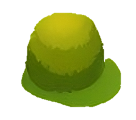
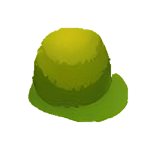
one bush done

diff --git a/roadkill_simulator/game.js b/roadkill_simulator/game.js
@@ -2,29 +2,109 @@ import keys from "./key.js";
 import { player } from "./player.js"
 import { up, down, right, left } from "./player.js"
 
+// Update view: on init and listening (subscribe) to the player. Retrieve the state with [storeName].getState().[sliceName]
+
+const lineHeight = '70'
+let ga = document.querySelector(".gameArea");
+// const gameAreaAbsoluteHeight = ga.offsetHeight - ga.offsetTop // 前者是gameArea高度，後者是gameArea離最上面多遠
+
+const initRender = () => {
+  // lines on road
+  const gameArea = document.querySelector('.gameArea')
+  const grassArea = document.querySelector('.grass')
+
+  for (let x = 0; x < 5; x++) {
+    let div = document.createElement("div");
+    div.classList.add("line");
+    div.style.top = x * 150 + "px";
+    div.style.height = lineHeight + 'px'
+    gameArea.appendChild(div);
+  }
+
+  let bush1 = document.createElement('img')
+  bush1.src = './assets/bush1.png'
+  bush1.classList.add("bush1");
+  grassArea.appendChild(bush1);
+  bush1.style.left = 250 + 'px' //  -350 px ~ -250px; 250px ~ 350px
+  bush1.style.top = 100 + 'px'
+  bush1.style.height = 50 + 'px'
+  bush1.style.clipPath = 'inset(0px 0px 0.001px 0px)'
+
+  // car
+  let car = document.createElement('img')
+  car.src = './assets/car2.png'
+  car.innerHTML = 'car'
+  car.setAttribute('class', 'car')
+  gameArea.appendChild(car)
+}
+
+
 const movelines = () => {
   let lines = document.querySelectorAll(".line");
-  let ga = document.querySelector(".gameArea");
-  const gameAreaAbsoluteHeight = ga.offsetHeight - ga.offsetTop// gameArea長度
   lines.forEach(function (item) {
-    let y = parseFloat(item.style.top) // 每條線離gameArea邊緣多少
+    let y = parseFloat(item.style.top) // 每條線離gameArea邊緣多少 700 px
     let speed = player.getState().player.speed
-    if (y >= 600 + 70 + 0) { //以前0是 80
-      y = 0;
-    }
+    if (y >= ga.offsetHeight) { y = 0; } // 會影響有沒有縮完整才跳回去（應該要y == gameArea高度(ga.offsetHeight) 以後跳回去）
     y += speed
 
-    if (y > gameAreaAbsoluteHeight + 20) {
+    if (y > ga.offsetHeight - 70) { // 會影響開始縮的時間 (應該要從y == ga.offsetHeight - 線的長度開始縮)
       let len = parseFloat(item.style.height) - speed
       item.style.height = len + 'px'
       item.style.top = y + "px";
     }
-    else if (y <= 80 && parseFloat(item.style.height) < 80) {
+    else if (y <= 70 && parseFloat(item.style.height) <= 70) {
       let len = parseFloat(item.style.height) + speed
       item.style.top = 0 + "px";
       item.style.height = len + 'px'
     }
-    else if (y <= 700 + 100 - 80 && y >= 0) {
+    else {
+      item.style.height = lineHeight;
+      item.style.top = y + "px";
+    }
+  });
+}
+
+const getClipBottom = (clipPathValue) => {
+  const valuesArray = clipPathValue.split(' '); // Split the string into an array of values
+  const lastValue = valuesArray.pop(); // Remove and return the last value of the array
+  const lastNumber = parseFloat(lastValue); // Convert the last value to a number
+  return lastNumber
+}
+const getClipTop = (clipPathValue) => {
+  const valuesArray = clipPathValue.slice(6, -1).split(' ');; // Split the string into an array of values
+  const firstValue = valuesArray[0]; // Remove and return the last value of the array
+  const firstNumber = parseFloat(firstValue); // Convert the last value to a number
+  return firstNumber
+}
+
+
+const movebushes = () => {
+  let bushes = document.querySelectorAll(".bush1");
+  bushes.forEach(function (item) {
+    let y = parseFloat(item.style.top) // 每條線離gameArea邊緣多少 700 px
+    // console.log(y)
+    let speed = player.getState().player.speed
+    if (y >= ga.offsetHeight) {
+      y = -50;
+      item.style.clipPath = `inset(50px 0px 0.001px 0px)`;
+    } // 會影響有沒有縮完整才跳回去（應該要y == gameArea高度(ga.offsetHeight) 以後跳回去，跟線不一樣，他需要跳回-50，再慢慢揭露，線都長一樣所以只要管長度）
+    y += speed
+
+    if (y > ga.offsetHeight - 50) { // 會影響開始縮的時間 (應該要從y == ga.offsetHeight - 線的長度開始縮)
+      let toClip = getClipBottom(item.style.clipPath) + speed // 在現有的clippath數字再加上去speed的量
+      const newInsetValue = `0px 0px ${toClip}px 0px`;
+      item.style.clipPath = `inset(${newInsetValue})`;
+      item.style.top = y + "px";
+    }
+    else if (y <= 50) {
+      let toClipTop = getClipTop(item.style.clipPath) - speed
+      const newInsetValue = `${toClipTop}px 0px 0.001px 0px`;
+      item.style.clipPath = `inset(${newInsetValue})`;
+      item.style.top = y + "px";
+    }
+    else {
+      const newInsetValue = `0px 0px 0.001px 0px`;
+      item.style.clipPath = `inset(${newInsetValue})`;
       item.style.top = y + "px";
     }
   });
@@ -37,7 +117,7 @@ const playGame = () => {
   const car = document.querySelector('.car')
 
   movelines()
-
+  movebushes()
   if (player.getState().player.start) {
 
     if (keys.getState().key.ArrowUp && player.getState().player.y < road.bottom - car.offsetHeight - road.y) {
@@ -56,4 +136,6 @@ const playGame = () => {
   window.requestAnimationFrame(playGame)
 }
 
+
+export { initRender }
 export default playGame

diff --git a/roadkill_simulator/player.js b/roadkill_simulator/player.js
@@ -50,42 +50,12 @@ const rootReducer = {
 const player = appStore.configureStore({ reducer: rootReducer });
 // ---------
 
-// Update view: on init and listening (subscribe) to the player. Retrieve the state with [storeName].getState().[sliceName]
-const initRender = () => {
-
-  // lines on road
-  const gameArea = document.querySelector('.gameArea')
-  const grassArea = document.querySelector('.grass')
-
-  for (let x = 0; x < 5; x++) {
-    let div = document.createElement("div");
-    div.classList.add("line");
-    div.style.top = x * 170 + "px";
-    div.style.height = '70px'
-    gameArea.appendChild(div);
-  }
-
-  let bush1 = document.createElement('img')
-  bush1.src = './assets/bush1.png'
-  bush1.classList.add("bush1");
-  grassArea.appendChild(bush1);
-  bush1.style.left = 250 + 'px' //  -350 px ~ -250px; 250px ~ 350px
-
-  // car
-  let car = document.createElement('img')
-  car.src = './assets/car2.png'
-  car.innerHTML = 'car'
-  car.setAttribute('class', 'car')
-  gameArea.appendChild(car)
-
-}
-
 const renderplayer = () => {
   let car = document.querySelector('.car')
   car.style.left = player.getState().player.x + "px"
   car.style.bottom = player.getState().player.y + "px"
 }
-initRender()
+
 player.subscribe(renderplayer);
 
 export { up, down, left, right }

diff --git a/roadkill_simulator/roadkill.js b/roadkill_simulator/roadkill.js
@@ -1,4 +1,4 @@
-import playGame from "./game.js"
+import playGame, { initRender } from "./game.js"
 import { player, startAction } from "./player.js"
 
 const score = document.querySelector('.score')
@@ -21,6 +21,7 @@ const start = (e) => {
   startGameForm.classList.toggle('hide')
   startScreen.classList.toggle('hide')
   grassArea.classList.toggle('hide')
+  initRender()
   player.dispatch(startAction({ speed: speed }))
   window.requestAnimationFrame(playGame)
 }

diff --git a/roadkill_simulator/style.css b/roadkill_simulator/style.css
@@ -57,6 +57,5 @@ html {
 
 .bush1 {
     position: relative;
-    width: 50px;
-    height: calc(50px * 106 / 142);
+    /* clip-path: inset(0px 0px 10px 0px); */
 }
